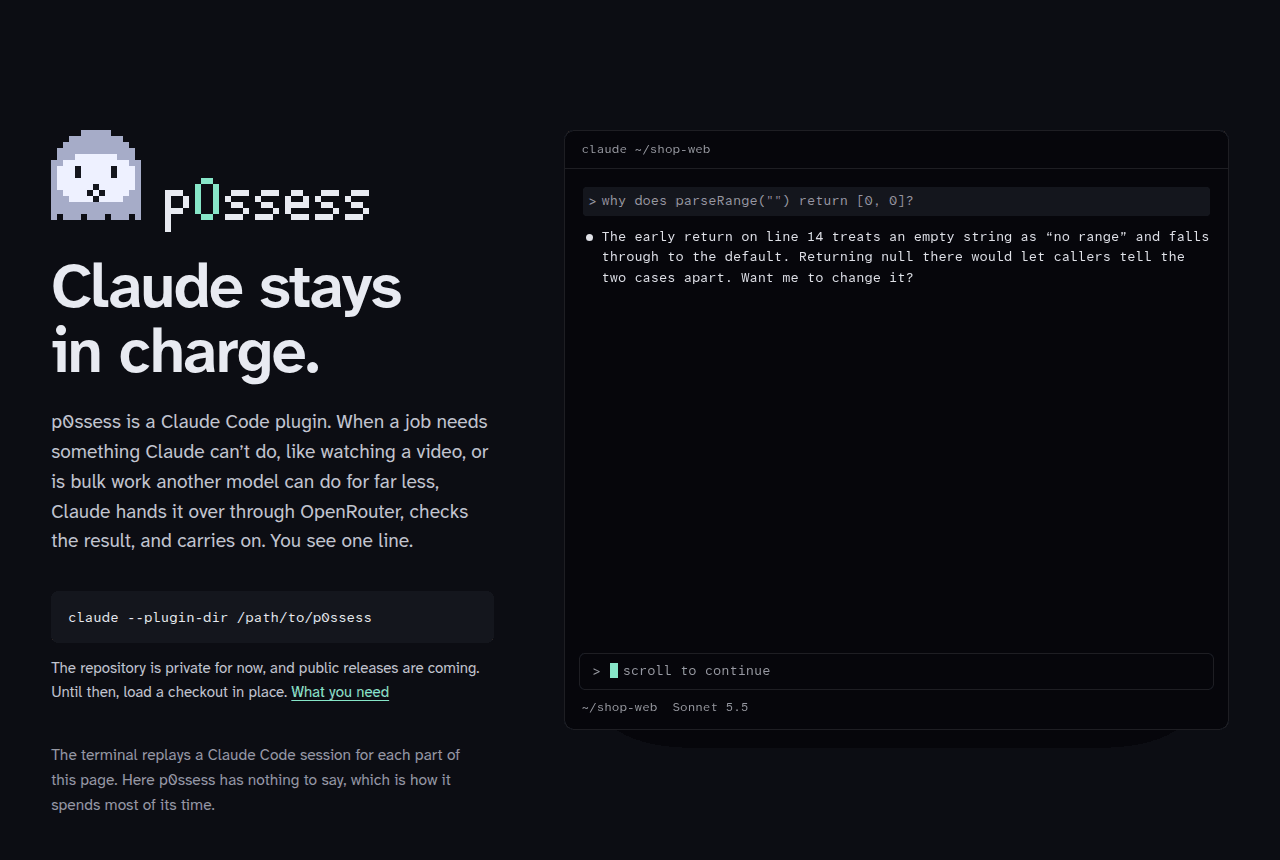
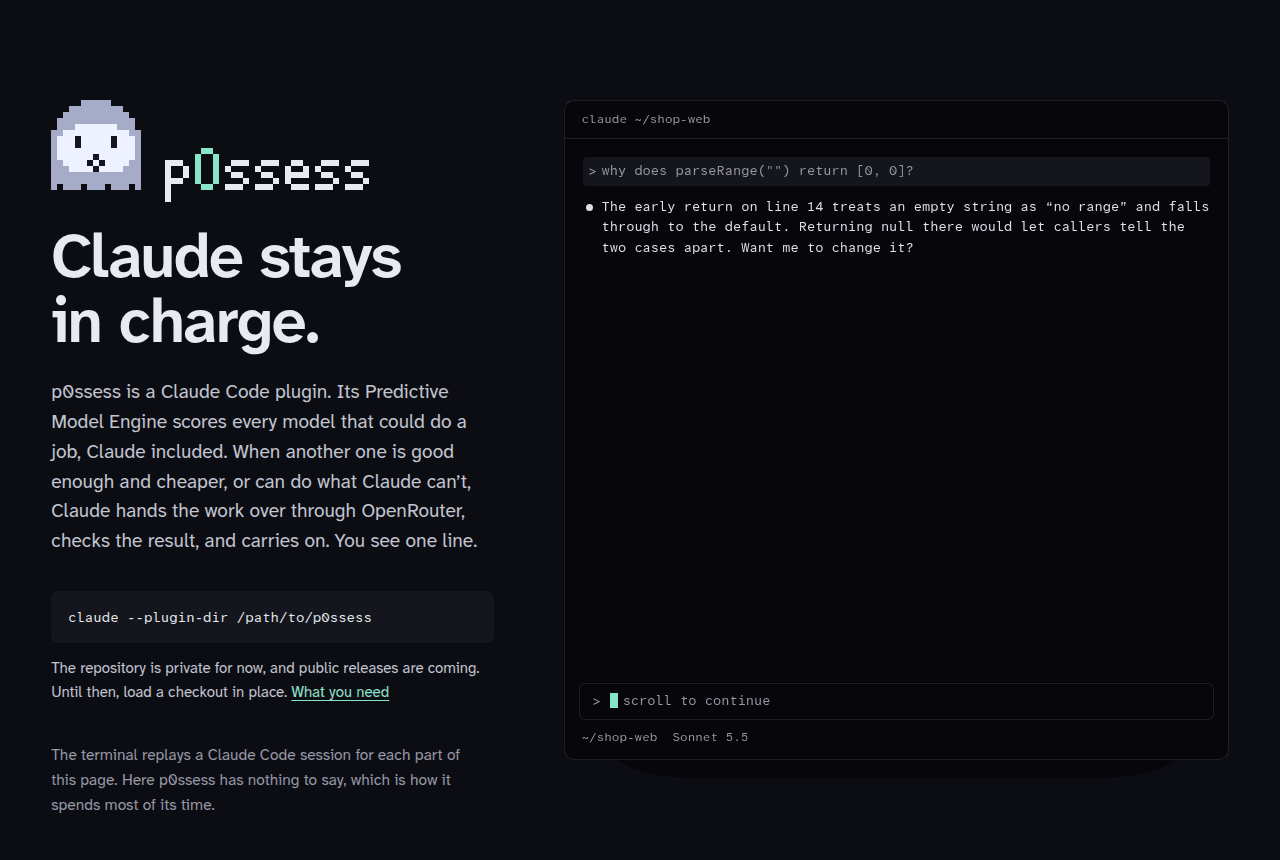
Website: the Predictive Model Engine up front, two coding hand-offs, 104 use cases
A section right after the opening explains scoring in plain terms: a
confidence score out of 100, a gate per severity (20, 35, 60, 80), then the
lowest real cost, with one request's real engine scores drawn as bars. New
scenes hand a router migration to DeepSeek V4.1 Flash through the relay agent
and a diff to GLM-5.3-Flash for review, with picks and announcements taken
from the engine. The data section lists catalog use cases with their picks
and estimates.

diff --git a/site/index.html b/site/index.html
@@ -28,7 +28,7 @@
       <svg class="wordmark" xmlns="http://www.w3.org/2000/svg" viewBox="0 0 34 9" shape-rendering="crispEdges" role="img" aria-label="p0ssess"><path class="wm-ink" d="M0 2h3v1h-3zM0 3h1v1h-1zM3 3h1v1h-1zM0 4h1v1h-1zM3 4h1v1h-1zM0 5h3v1h-3zM0 6h1v1h-1zM0 7h1v1h-1zM0 8h1v1h-1zM11 2h3v1h-3zM10 3h1v1h-1zM11 4h2v1h-2zM13 5h1v1h-1zM10 6h3v1h-3zM16 2h3v1h-3zM15 3h1v1h-1zM16 4h2v1h-2zM18 5h1v1h-1zM15 6h3v1h-3zM21 2h2v1h-2zM20 3h1v1h-1zM23 3h1v1h-1zM20 4h4v1h-4zM20 5h1v1h-1zM21 6h3v1h-3zM26 2h3v1h-3zM25 3h1v1h-1zM26 4h2v1h-2zM28 5h1v1h-1zM25 6h3v1h-3zM31 2h3v1h-3zM30 3h1v1h-1zM31 4h2v1h-2zM33 5h1v1h-1zM30 6h3v1h-3z"/><path class="wm-zero" d="M6 0h2v1h-2zM5 1h1v1h-1zM8 1h1v1h-1zM5 2h1v1h-1zM8 2h1v1h-1zM5 3h1v1h-1zM8 3h1v1h-1zM5 4h1v1h-1zM8 4h1v1h-1zM5 5h1v1h-1zM8 5h1v1h-1zM6 6h2v1h-2z"/></svg>
     </div>
     <h1>Claude stays in charge.</h1>
-    <p class="lede">p0ssess is a Claude Code plugin. When a job needs something Claude can’t do, like watching a video, or is bulk work another model can do for far less, Claude hands it over through OpenRouter, checks the result, and carries on. You see one line.</p>
+    <p class="lede">p0ssess is a Claude Code plugin. Its Predictive Model Engine scores every model that could do a job, Claude included. When another one is good enough and cheaper, or can do what Claude can’t, Claude hands the work over through OpenRouter, checks the result, and carries on. You see one line.</p>
     <div class="install">
       <pre><code>claude --plugin-dir /path/to/p0ssess</code></pre>
       <p class="small">The repository is private for now, and public releases are coming. Until then, load a checkout in place. <a href="#try">What you need</a></p>
@@ -45,18 +45,69 @@
   </figure>
 </header>
 
+<section class="sec engine" id="engine" aria-labelledby="engine-h">
+  <div class="copy">
+    <h2 id="engine-h">The Predictive Model Engine</h2>
+    <p class="lead">Every request that could leave Claude goes through it, and every model that could do the job is scored the same way, Claude included. It comes down to a score, a gate and a price.</p>
+    <h3>A score out of 100</h3>
+    <p>Each candidate gets a confidence score out of 100: a cautious estimate of how likely its result is to be accepted. It starts from licensed benchmarks and public usage data, and moves with your own history of what you kept and what Claude had to redo.</p>
+    <h3>A gate for every severity</h3>
+    <p>Claude rates each request from trivial to critical. Every level has a gate, and a model has to score at least that much to be considered at all.</p>
+    <table class="gates">
+      <thead><tr><th scope="col">Severity</th><th scope="col">For example</th><th scope="col">Gate</th><th scope="col">A mistake costs</th></tr></thead>
+      <tbody>
+        <tr><th scope="row">Trivial</th><td data-label="For example">Renames, log summaries, captions</td><td data-label="Gate">20</td><td data-label="A mistake costs">$0.01</td></tr>
+        <tr><th scope="row">Routine</th><td data-label="For example">Test drafts, transcripts, bulk edits Claude reviews</td><td data-label="Gate">35</td><td data-label="A mistake costs">$0.10</td></tr>
+        <tr><th scope="row">Important</th><td data-label="For example">Features that ship, security write-ups, migration plans</td><td data-label="Gate">60</td><td data-label="A mistake costs">$1</td></tr>
+        <tr><th scope="row">Critical</th><td data-label="For example">Auth, firewalls, infrastructure, production, money, anything sent to people</td><td data-label="Gate">80</td><td data-label="A mistake costs">$10</td></tr>
+      </tbody>
+    </table>
+    <p>Critical work also stays with Claude unless you write a rule that names a model for it.</p>
+    <h3>Then the lowest real cost wins</h3>
+    <p>Among the models that clear the gate, the engine picks the one that costs least overall: the price of the call, the Claude usage it spends or saves (worth more as you near your plan’s limit), the cost of handing the work off and checking it, and what a mistake would cost at that severity. Claude makes the final call, and your rules and budget have the last word.</p>
+    <p>That is also why small jobs stay put. A hand-off costs Claude $0.04 to $0.12 of its own usage, so anything cheaper than that to do in place never leaves.</p>
+    <figure class="gauge" aria-labelledby="gauge-cap">
+      <p class="gauge-task">One request: build a feature from a spec, and the tests decide. That’s important work, so the gate is 60.</p>
+      <div class="axis" aria-hidden="true"><span class="t20">20</span><span class="t35">35</span><span class="t60">60</span><span class="t80">80</span></div>
+      <ol class="bars">
+      <li class="pass"><span class="who">Claude Opus 5.5 <small>as an agent</small></span><span class="track" aria-hidden="true"><svg viewBox="0 0 100 10" preserveAspectRatio="none"><rect class="fill" width="82" height="10"/><line class="gate-line" x1="60" x2="60" y1="0" y2="10" vector-effect="non-scaling-stroke"/></svg></span><span class="n">82</span><span class="cost">$1.03</span><span class="sr-only">clears the gate</span></li>
+      <li class="pass"><span class="who">Claude Sonnet 5.5 <small>in your session</small></span><span class="track" aria-hidden="true"><svg viewBox="0 0 100 10" preserveAspectRatio="none"><rect class="fill" width="71" height="10"/><line class="gate-line" x1="60" x2="60" y1="0" y2="10" vector-effect="non-scaling-stroke"/></svg></span><span class="n">71</span><span class="cost">$0.54</span><span class="sr-only">clears the gate; Claude doing it itself</span></li>
+      <li class="pass win"><span class="who">GPT-6.1 Sol</span><span class="track" aria-hidden="true"><svg viewBox="0 0 100 10" preserveAspectRatio="none"><rect class="fill" width="65" height="10"/><line class="gate-line" x1="60" x2="60" y1="0" y2="10" vector-effect="non-scaling-stroke"/></svg></span><span class="n">65</span><span class="cost">$0.51</span><span class="sr-only">clears the gate; lowest real cost, gets the job</span></li>
+      <li class="fail"><span class="who">DeepSeek V4.1 Flash</span><span class="track" aria-hidden="true"><svg viewBox="0 0 100 10" preserveAspectRatio="none"><rect class="fill" width="40" height="10"/><line class="gate-line" x1="60" x2="60" y1="0" y2="10" vector-effect="non-scaling-stroke"/></svg></span><span class="n">40</span><span class="cost">below the gate</span><span class="sr-only">below the gate</span></li>
+      <li class="fail"><span class="who">Claude Haiku 5.5</span><span class="track" aria-hidden="true"><svg viewBox="0 0 100 10" preserveAspectRatio="none"><rect class="fill" width="36" height="10"/><line class="gate-line" x1="60" x2="60" y1="0" y2="10" vector-effect="non-scaling-stroke"/></svg></span><span class="n">36</span><span class="cost">below the gate</span><span class="sr-only">below the gate</span></li>
+      <li class="fail"><span class="who">GLM-5.3-Flash</span><span class="track" aria-hidden="true"><svg viewBox="0 0 100 10" preserveAspectRatio="none"><rect class="fill" width="35" height="10"/><line class="gate-line" x1="60" x2="60" y1="0" y2="10" vector-effect="non-scaling-stroke"/></svg></span><span class="n">35</span><span class="cost">below the gate</span><span class="sr-only">below the gate</span></li>
+      </ol>
+      <figcaption id="gauge-cap">Confidence scores and real costs from the engine for this request on a pay-per-token plan, before any history, rounded. Three models clear the gate, and GPT-6.1 Sol costs least once Claude’s hand-off and review are counted, so it gets the job and Claude reviews the diff. On a subscription early in a usage window, Claude’s own time counts for less, and it keeps the work. Agent evidence: LMArena leaderboard dataset, rev f566816, agent subsets as of 2026-11-04. Licensed under CC BY 4.0.</figcaption>
+    </figure>
+  </div>
+  <figure class="scene" data-title="claude ~/billing-api" data-st="idle|" aria-labelledby="t-engine">
+    <figcaption class="sr-only" id="t-engine">Transcript: the engine’s ranking for a feature, and why a cheap model is missing.</figcaption>
+    <div class="log">
+      <p class="l in bang">p0ssess engine recommend --use-case code-implement-feature --stakes 3 --top 2</p>
+      <p class="l out" data-d="700">code-implement-feature (#8, agent) · stakes 3 · λ 1.00 (API-key plan: Claude at list price)</p>
+      <p class="l out c">   route   model              total    cash     claude   risk     p_fail</p>
+      <p class="l out c">1  agent   gpt-6.1-sol        $0.5101  $0.2110  $0.1180  $0.1811  0.30    ask: up to $0.633, above the $0.02 per-task limit; edits your code; first use of this model</p>
+      <p class="l out c">2  claude  claude-sonnet-5.5  $0.5395  $0.0000  $0.4000  $0.1395  0.23</p>
+      <p class="l out c">pick: handing this to gpt-6.1-sol: feature or function from a spec; tests must pass</p>
+      <p class="l in">why isn’t deepseek flash on the list?</p>
+      <p class="l ai" data-d="900">The engine left it out: “p_fail up to 0.60 is above the stakes-3 ceiling 0.40.” As a score, that’s 40 out of 100 against a gate of 60 for important work. GPT-6.1 Sol scores 65 and I score 71; Sol wins on cost, and I’d review its diff.</p>
+    </div>
+    <p class="foot"><span class="me">~/billing-api  Sonnet 5.5</span></p>
+  </figure>
+</section>
+
 <section class="sec" id="media" aria-labelledby="media-h">
   <div class="copy">
     <h2 id="media-h">Media Claude can’t watch</h2>
     <p>Claude reads code, text and images. It can’t watch a screen recording or listen to a voice memo. When a prompt mentions one, p0ssess adds a single line of context, and Claude sends the file to a model that can, with a prompt and a price ceiling. Then it works from the answer.</p>
-    <p>On real calls, Gemini 3.8 Flash described a ten-second clip for $0.0067, and Whisper transcribed sixteen seconds of speech for $0.0002. Nothing large goes out quietly: a video over the size or length limit stops and offers local ffmpeg steps (downscale, keyframes or segments), and Claude says which one it picked.</p>
+    <p>On real calls, Gemini 3.8 Flash described a ten-second clip for $0.0067 and was the only model tested that got every detail right, sound included. Whisper transcribed sixteen seconds of speech for $0.0002. Nothing large goes out quietly: a video over the size or length limit stops and offers local ffmpeg steps (downscale, keyframes or segments), and Claude says which one it picked.</p>
   </div>
   <figure class="scene" data-title="claude ~/shop-web" data-st="idle|" aria-labelledby="t-media">
     <figcaption class="sr-only" id="t-media">Transcript: a screen recording goes to Gemini 3.8 Flash.</figcaption>
     <div class="log">
-      <p class="l in">bug-repro.mp4 is the checkout crash. what happens right before it?</p>
+      <p class="l in">have gemini flash watch bug-repro.mp4. what happens right before the checkout crash?</p>
       <p class="l ai" data-d="700">handing this to gemini-3.8-flash: describe the screen recording</p>
-      <p class="l tool" data-d="500"><b>p0ssess - direct</b> (MCP)(model: "google/gemini-3.8-flash", prompt: "Describe what happens in this screen recording, with timestamps", files: ["…/bug-repro.mp4"], stakes: 1, max_cost_usd: 0.02)</p>
+      <p class="l tool" data-d="500"><b>p0ssess - direct</b> (MCP)(model: "google/gemini-3.8-flash", prompt: "Describe what happens in this screen recording, with timestamps", files: ["…/bug-repro.mp4"], use_case: "video-bug-repro", stakes: 1, max_cost_usd: 0.02)</p>
       <p class="l res" data-d="1500">&lt;answer&gt;</p>
       <p class="l res c">0:02  The cart shows two items and a coupon field.</p>
       <p class="l res c">0:05  “Place order” is clicked twice in quick succession.</p>
@@ -71,45 +122,70 @@
   </figure>
 </section>
 
-<section class="sec tall" id="bulk" aria-labelledby="bulk-h">
+<section class="sec tall" id="chores" aria-labelledby="chores-h">
   <div class="copy">
-    <h2 id="bulk-h">Bulk work at bulk prices</h2>
-    <p>Name a model and the work goes to it. For multi-step jobs on files, a small relay agent runs an OpenCode session on that model in a sandbox, in the background, and returns a diff from a separate git worktree. Nothing is merged. Claude reads the whole diff, runs the tests, and applies it only if it’s right.</p>
-    <p>In testing, DeepSeek V4.1 Flash finished small coding tasks for $0.001 to $0.005 each. The hand-off is the expensive part: every one took $0.04 to $0.12 of Claude’s own usage before the other model spent a cent. So p0ssess sends out work that is big enough to clear that line, and leaves the rest where it is.</p>
+    <h2 id="chores-h">Tedious code, handed to a coding agent</h2>
+    <p>Ask for a chore, like moving every handler to a new router API, and the engine looks for a cheap coding model whose work the tests can check. A small relay agent runs that model in OpenCode, in the background, in a sandbox pod of its own, on a separate git worktree. What comes back is a diff. Nothing lands until Claude has read it and run the tests.</p>
+    <p>Work that edits your code always asks first. In testing, DeepSeek V4.1 Flash finished small coding tasks for $0.001 to $0.005 each. The hand-off itself took $0.04 to $0.12 of Claude’s usage, which is why only jobs bigger than that go out.</p>
   </div>
-  <figure class="scene" data-title="claude ~/stats-lib" data-st="idle|$0.01 today" aria-labelledby="t-bulk">
-    <figcaption class="sr-only" id="t-bulk">Transcript: test drafting goes to DeepSeek V4.1 Flash in the sandbox.</figcaption>
+  <figure class="scene" data-title="claude ~/billing-api" data-st="idle|" aria-labelledby="t-chores">
+    <figcaption class="sr-only" id="t-chores">Transcript: a router migration goes to DeepSeek V4.1 Flash through the relay agent, and Claude reviews the diff.</figcaption>
     <div class="log">
-      <p class="l in">use deepseek flash to draft tests for stats.py</p>
-      <p class="l ai" data-d="600">handing this to deepseek-v4.1-flash: draft tests for stats.py</p>
-      <p class="l tool" data-d="500"><b>p0ssess:p0ssess</b>(Draft tests for stats.py)</p>
-      <p class="l res dim">deepseek/deepseek-v4.1-flash: draft tests for stats.py, edit mode, stakes 2, max $0.02</p>
+      <p class="l in">move the handlers in api/ to the v2 router. the tests should still pass</p>
+      <p class="l tool" data-d="600"><b>p0ssess - recommend</b> (MCP)(use_case: "migration-test-gated", stakes: 2)</p>
+      <p class="l res dim">{"use_case": {"id": "migration-test-gated", "n": 101, "task": "Bulk non-mechanical migration gated per file by…</p>
+      <p class="l ai" data-d="700">About $0.004 on deepseek-v4.1-flash-1017, up to $0.012 with retries. It edits your code in a separate worktree, and it’s the first use of this model. Go ahead?</p>
+      <p class="l in">go ahead</p>
+      <p class="l ai" data-d="500">handing this to deepseek-v4.1-flash-1017: bulk non-mechanical migration gated per file by tests, lint and type checks, with error-fed retries</p>
+      <p class="l tool" data-d="500"><b>p0ssess:p0ssess</b>(Move api/ handlers to the v2 router)</p>
+      <p class="l res dim">deepseek/deepseek-v4.1-flash-1017: move the handlers in api/ to the v2 router, run go test ./api/... after each file, edit mode, stakes 2, max $0.012</p>
       <p class="l res c" data-st="run|1 running  $0.01">Running in the background</p>
-      <p class="l sys" data-d="2200">Agent “draft tests for stats.py” finished</p>
-      <p class="l res">&lt;answer&gt;Added tests/test_stats.py: cases for mean, median, percentile and empty input. All pass.&lt;/answer&gt;</p>
-      <p class="l res c dim" data-st="idle|$0.01 today">done  deepseek/deepseek-v4.1-flash  $0.003  diff +88 −0</p>
-      <p class="l tool" data-d="700"><b>Bash</b>(python3 -m pytest tests/test_stats.py -q)</p>
-      <p class="l res" data-d="900">11 passed</p>
-      <p class="l ai" data-d="800">The tests look right. Two compare floats with ==, so I’ll apply the diff and switch those to pytest.approx.</p>
-      <p class="l tool"><b>Bash</b>(git apply ~/.config/p0ssess/runs/ses_4f1c/diff.patch)</p>
+      <p class="l sys" data-d="2200">Agent “Move api/ handlers to the v2 router” finished</p>
+      <p class="l res">&lt;answer&gt;Moved 9 handlers in api/ to router v2: new route registration, context-first signatures, typed path params. go test ./api/... passes.&lt;/answer&gt;</p>
+      <p class="l res c dim" data-st="idle|&lt;$0.01 today">done  deepseek/deepseek-v4.1-flash-1017  $0.004  diff +212 −187</p>
+      <p class="l ai" data-d="800">Reading the diff. It’s mechanical except in orders.go, where the rewrite dropped the idempotency-key check. Applying it with that line restored.</p>
+      <p class="l tool"><b>Bash</b>(git apply ~/.local/state/p0ssess/relay/runs/ses_4f1c/diff.patch)</p>
+      <p class="l tool" data-d="600"><b>Update</b>(api/orders.go)</p>
+      <p class="l res">Updated api/orders.go with 3 additions</p>
     </div>
-    <p class="foot"><span class="me">~/stats-lib  Sonnet 5.5</span><span class="seg idle"><span class="mark" aria-hidden="true">ᗣ</span> p0ssess  $0.01 today</span></p>
+    <p class="foot"><span class="me">~/billing-api  Sonnet 5.5</span><span class="seg idle"><span class="mark" aria-hidden="true">ᗣ</span> p0ssess  &lt;$0.01 today</span></p>
+  </figure>
+</section>
+
+<section class="sec" id="review" aria-labelledby="review-h">
+  <div class="copy">
+    <h2 id="review-h">A second opinion from another family</h2>
+    <p>Before a merge, ask for a review from outside Claude’s own family. The engine looks for a model that is good enough at code review and costs least; for a typical diff that was GLM-5.3-Flash, at an estimated $0.002. Claude checks each finding against the code, fixes what holds up and says what it skipped. The review adds to Claude’s own and never replaces it.</p>
+    <p>For important changes, Claude can also offer reviews from two other families at once, with their cost, before you decide.</p>
+  </div>
+  <figure class="scene" data-title="claude ~/retry" data-st="idle|" aria-labelledby="t-review">
+    <figcaption class="sr-only" id="t-review">Transcript: a diff goes to GLM-5.3-Flash for review, and Claude weighs the findings.</figcaption>
+    <div class="log">
+      <p class="l in">before I merge this branch, get a review from another model family</p>
+      <p class="l tool" data-d="600"><b>Bash</b>(git diff main...HEAD &gt; /tmp/retry.diff)</p>
+      <p class="l tool" data-d="500"><b>p0ssess - recommend</b> (MCP)(use_case: "code-review-diff", stakes: 2)</p>
+      <p class="l res dim">{"use_case": {"id": "code-review-diff", "n": 28, "task": "Review a diff or branch with a different family", …</p>
+      <p class="l ai" data-d="600">handing this to glm-5.3-flash: review a diff or branch with a different family</p>
+      <p class="l tool" data-d="500" data-st="run|1 running  $0.02"><b>p0ssess - direct</b> (MCP)(model: "z-ai/glm-5.3-flash", prompt: "Review this diff for bugs and missing tests. Give file and line for each finding.", files: ["/tmp/retry.diff"], use_case: "code-review-diff", stakes: 2, max_cost_usd: 0.02)</p>
+      <p class="l res" data-d="1600">&lt;answer&gt;</p>
+      <p class="l res c">1. retry.go:41  The delay doubles before the first sleep, so the first retry waits 2s, not the documented 1s.</p>
+      <p class="l res c">2. retry.go:58  Do ignores ctx while sleeping; a cancel waits out the whole backoff.</p>
+      <p class="l res c">3. retry_test.go  No test for a permanent error.</p>
+      <p class="l res c">&lt;/answer&gt;</p>
+      <p class="l res c dim" data-st="idle|&lt;$0.01 today">… +2 lines (ctrl+o to expand)</p>
+      <p class="l ai" data-d="800">The first two hold up. The third is already covered by TestDoStopsOnPermanent, so I’m skipping it. Fixing the backoff and making the sleep watch ctx.Done().</p>
+      <p class="l tool"><b>Update</b>(retry.go)</p>
+      <p class="l res">Updated retry.go with 6 additions and 3 removals</p>
+    </div>
+    <p class="foot"><span class="me">~/retry  Sonnet 5.5</span><span class="seg idle"><span class="mark" aria-hidden="true">ᗣ</span> p0ssess  &lt;$0.01 today</span></p>
   </figure>
 </section>
 
 <section class="sec" id="stakes" aria-labelledby="stakes-h">
   <div class="copy">
     <h2 id="stakes-h">Some work stays with Claude</h2>
-    <p>Every route is scored the same way, Claude included: the cash, the Claude usage it spends or saves, the chance the result isn’t accepted, and what a bad result would cost. The lowest expected cost per accepted result wins, and Claude makes the call.</p>
-    <p>What a bad result costs depends on the stakes. Claude rates each task from 1 to 4 and only mentions the rating when it changes where the work goes.</p>
-    <dl class="stakes">
-      <div><dt>1 Trivial</dt><dd>Renames, log summaries, captions. Easy to undo, and mistakes are obvious.</dd></div>
-      <div><dt>2 Routine</dt><dd>Test drafts, transcripts, bulk edits Claude reviews.</dd></div>
-      <div><dt>3 Important</dt><dd>Features that ship, security write-ups, migration plans.</dd></div>
-      <div><dt>4 Critical</dt><dd>Auth, firewalls, infrastructure, production, money, anything sent to other people.</dd></div>
-    </dl>
-    <p>Critical work stays on Claude unless you write a rule that names a model for it, and the tools enforce that whatever Claude decides. Small work stays too: a rename costs Claude less to do than to hand off, so it is never offered. If a rating is wrong, say so.</p>
-    <p>For important code changes, Claude can also offer a second opinion from two other model families, with its cost. It adds to Claude’s own review and never replaces it.</p>
+    <p>When a request is critical, the gate decides before price does. Ask for a firewall change on a cheap model and Claude says so in one line, then does the work itself. The tools that spend enforce the same gate, whatever Claude decides.</p>
+    <p>Small work stays too, without a word: a rename costs Claude less to do than to hand off. If a rating looks wrong, say so in plain words and Claude uses yours.</p>
   </div>
   <figure class="scene" data-title="claude ~/edge" data-st="idle|" aria-labelledby="t-stakes">
     <figcaption class="sr-only" id="t-stakes">Transcript: a firewall change stays on Claude; a rename stays without comment.</figcaption>
@@ -138,18 +214,20 @@
     <p>A rules file that arrives inside a cloned repository can only tighten your limits. Anything that would loosen them is ignored, and you’re told once.</p>
   </div>
   <figure class="scene" data-title="claude ~/talks" data-st="idle|" aria-labelledby="t-rules">
-    <figcaption class="sr-only" id="t-rules">Transcript: a standing approval in plain language, then a video job that runs without asking.</figcaption>
+    <figcaption class="sr-only" id="t-rules">Transcript: a rule and a standing approval in plain language, then a video job that runs without asking.</figcaption>
     <div class="log">
-      <p class="l in">auto-approve video descriptions up to 15 cents each</p>
-      <p class="l tool" data-d="600"><b>p0ssess - approvals_add</b> (MCP)(use_cases: ["video-understand"], max_per_run_usd: 0.15, scope: "global", dry_run: true)</p>
+      <p class="l in">only use gemini-3.8-flash for video, and auto-approve video descriptions up to 15 cents each</p>
+      <p class="l tool" data-d="600"><b>p0ssess - rules_add</b> (MCP)(kind: "only", models: ["google/gemini-3.8-flash"], kinds: ["media"], scope: "global", dry_run: true)</p>
+      <p class="l res">only use gemini-3.8-flash for media work (global)</p>
+      <p class="l tool" data-d="500"><b>p0ssess - approvals_add</b> (MCP)(use_cases: ["video-understand"], max_per_run_usd: 0.15, scope: "global", dry_run: true)</p>
       <p class="l res">auto-approve for video-understand up to $0.15 each (global)</p>
-      <p class="l ai" data-d="600">auto-approve for video-understand up to $0.15 each (global). Save it?</p>
+      <p class="l ai" data-d="600">Two rules: only use gemini-3.8-flash for media work (global), and auto-approve for video-understand up to $0.15 each (global). Save both?</p>
       <p class="l in">yes</p>
-      <p class="l tool" data-d="500"><b>p0ssess - approvals_add</b> (MCP)(use_cases: ["video-understand"], max_per_run_usd: 0.15, scope: "global")</p>
-      <p class="l res">saved</p>
+      <p class="l tool" data-d="500"><b>p0ssess - rules_add</b> (MCP)(kind: "only", models: ["google/gemini-3.8-flash"], kinds: ["media"], scope: "global")</p>
+      <p class="l tool" data-d="300"><b>p0ssess - approvals_add</b> (MCP)(use_cases: ["video-understand"], max_per_run_usd: 0.15, scope: "global")</p>
       <p class="l in">what changes between take-1.mp4 and take-2.mp4?</p>
       <p class="l ai" data-d="600">handing this to gemini-3.8-flash: compare the two takes</p>
-      <p class="l tool" data-d="500"><b>p0ssess - direct</b> (MCP)(model: "google/gemini-3.8-flash", prompt: "Compare the two takes", files: ["…/take-1.mp4", "…/take-2.mp4"], stakes: 1, max_cost_usd: 0.15)</p>
+      <p class="l tool" data-d="500"><b>p0ssess - direct</b> (MCP)(model: "google/gemini-3.8-flash", prompt: "Compare the two takes", files: ["…/take-1.mp4", "…/take-2.mp4"], use_case: "video-understand", stakes: 1, max_cost_usd: 0.15)</p>
       <p class="l res" data-d="1500" data-st="idle|$0.01 today">&lt;answer&gt;Take 2 drops the intro slide and starts on the demo; the closing line is the same.&lt;/answer&gt;</p>
     </div>
     <p class="foot"><span class="me">~/talks  Sonnet 5.5</span><span class="seg idle"><span class="mark" aria-hidden="true">ᗣ</span> p0ssess  $0.01 today</span></p>
@@ -236,11 +314,26 @@
   </figure>
 </section>
 
-<section class="sec" id="data" aria-labelledby="data-h">
+<section class="sec tall" id="data" aria-labelledby="data-h">
   <div class="copy">
-    <h2 id="data-h">Numbers with a source</h2>
-    <p>The engine starts from data whose license allows reuse, and every value carries its source and date: OpenRouter’s public model list and Data API (CC BY 4.0), LMArena’s leaderboard dataset (CC BY 4.0), the benchmarks Epoch AI runs itself (CC BY 4.0), and models.dev (MIT) as a cross-check. Where no clean benchmark exists, as for audio and video, it says so and learns from your own outcomes.</p>
-    <p>The catalog holds 104 use cases, each backed by public evidence, with a recommended model, alternatives that include Claude on equal footing, stakes, expected cost, and how Claude checks the result.</p>
+    <h2 id="data-h">Built from 104 use cases</h2>
+    <p>The engine was built from 104 researched use cases, each backed by public evidence. About half are grounded in OpenRouter usage data, the other half in what Claude Code can’t do or does expensively. Each lists a recommended model, alternatives with Claude on equal footing, a severity, an expected cost, and how Claude checks the result. A few of them:</p>
+    <table class="cases">
+      <thead><tr><th scope="col">Use case</th><th scope="col">Catalog pick</th><th scope="col">Estimate</th></tr></thead>
+      <tbody>
+        <tr><td>Summarize a talk, meeting or lecture video</td><td data-label="Catalog pick">Gemini 3.8 Flash</td><td data-label="Estimate">$0.05–0.15 per 10 minutes</td></tr>
+        <tr><td>Meetings, memos and interviews to text</td><td data-label="Catalog pick">Whisper large v3 turbo</td><td data-label="Estimate">about $0.006 per 30 minutes</td></tr>
+        <tr><td>Bulk migration, gated file by file by tests</td><td data-label="Catalog pick">DeepSeek V4.1 Flash</td><td data-label="Estimate">about $0.002 per attempt</td></tr>
+        <tr><td>Condense big logs or CI output</td><td data-label="Catalog pick">DeepSeek V4.1 Flash</td><td data-label="Estimate">$0.004–0.013 per 1 MB log</td></tr>
+        <tr><td>Translate new keys in locale files</td><td data-label="Catalog pick">Gemini 3.8 Flash</td><td data-label="Estimate">about $0.017 per locale</td></tr>
+        <tr><td>Icons, illustrations, hero images</td><td data-label="Catalog pick">Gemini 3.1 Flash Image</td><td data-label="Estimate">about $0.04 per image</td></tr>
+        <tr><td>Label many issues, logs or files</td><td data-label="Catalog pick">GLM-5.3-Flash</td><td data-label="Estimate">about $0.04 per 1,000 items</td></tr>
+        <tr><td>Firewall rules, Terraform, IAM policies</td><td data-label="Catalog pick">Stays with Claude</td><td data-label="Estimate">critical</td></tr>
+        <tr><td>Auth, session, crypto and payment code</td><td data-label="Catalog pick">Stays with Claude</td><td data-label="Estimate">critical</td></tr>
+      </tbody>
+    </table>
+    <p class="small">Estimates are the catalog’s list-price figures; the engine prices each request again from live data.</p>
+    <p>Every number comes from data whose license allows reuse, with its source and date: OpenRouter’s public model list and Data API (CC BY 4.0), LMArena’s leaderboard dataset (CC BY 4.0), the benchmarks Epoch AI runs itself (CC BY 4.0), and models.dev (MIT) as a cross-check. Where no clean benchmark exists, as for audio and video, the engine says so and learns from your own outcomes.</p>
     <p>Sometimes the market and the evidence disagree. Cheap flash models run a 10–49-turn Claude Code session for a median $0.027 on DeepSeek V4.1 Flash, against $0.534 on Sonnet 5.5. On LMArena’s agent board, Opus 5.5 scores 0.201 and DeepSeek V4.1 Flash 0.024. The engine follows the evidence and treats agentic hand-offs as a priced risk.</p>
     <p class="cite">Session costs: Source: OpenRouter Data API (openrouter.ai/docs/cookbook/administration/data-api), as of 2026-11-02T07:25:14.332Z. Licensed under CC BY 4.0. Agent scores: LMArena leaderboard dataset, rev f566816, agent subsets as of 2026-11-04. Licensed under CC BY 4.0.</p>
   </div>
@@ -254,7 +347,7 @@
       <p class="l out c">2  direct  gemma-4-26b-a4b-it  $0.0773  $0.0058  $0.0550  $0.0165  0.25    ask: first use of this model</p>
       <p class="l out c">pick: handing this to glm-5.3-flash: summarize a talk, meeting or lecture video</p>
       <p class="l in">why is there no claude row?</p>
-      <p class="l ai" data-d="800">Claude can’t watch video, so it isn’t a candidate. There’s no clean video benchmark either, so the catalog’s ordering is the prior until your own outcomes move it.</p>
+      <p class="l ai" data-d="800">Claude can’t watch video, so it isn’t a candidate. There’s no clean video benchmark either, so the catalog’s ordering is the prior: Gemini 3.8 Flash is its pick, but with no history yet GLM-5.3-Flash wins on price at this severity. Your own outcomes move that.</p>
     </div>
     <p class="foot"><span class="me">~/talks  Sonnet 5.5</span></p>
   </figure>

diff --git a/site/style.css b/site/style.css
@@ -157,6 +157,61 @@ h2 {
 .install p code { color: var(--ink); }
 .hint { margin-top: 3.2rem !important; font-size: 0.97rem; color: var(--ink-3) !important; max-width: 27rem; }
 
+/* The engine */
+.copy h3 { font-size: 1.2rem; font-weight: 640; letter-spacing: -0.01em; line-height: 1.3; margin-top: 2.2rem; }
+.copy h3 + p { margin-top: 0.5rem; }
+.copy .lead { font-size: 1.2rem; line-height: 1.55; color: var(--ink-2); }
+.engine h2 { font-size: clamp(2.1rem, 2.2vw + 1.2rem, 2.9rem); letter-spacing: -0.025em; line-height: 1.05; }
+
+table { border-collapse: collapse; width: 100%; font-size: 0.97rem; }
+th, td { text-align: left; vertical-align: top; padding: 0.6rem 0.9rem 0.6rem 0; border-top: 1px solid var(--rule); }
+thead th { font-weight: 500; font-size: 0.86rem; color: var(--ink-3); border-top: 0; padding-bottom: 0.45rem; }
+tbody tr:last-child > * { border-bottom: 1px solid var(--rule); }
+tbody th { font-weight: 640; }
+td { color: var(--ink-2); }
+.gates { margin-top: 1.2rem !important; }
+.gates td:nth-child(3), .gates thead th:nth-child(3) { font-variant-numeric: tabular-nums; font-weight: 640; color: var(--ink); text-align: right; }
+.gates td:nth-child(4), .gates thead th:nth-child(4) { font-variant-numeric: tabular-nums; text-align: right; padding-right: 0; white-space: nowrap; }
+.gates td:nth-child(2) { padding-right: 1.4rem; }
+
+.gauge { margin-top: 2.4rem !important; padding: 1.4rem 1.3rem 1.2rem; background: var(--bg-2); border-radius: 12px; }
+.gauge-task { color: var(--ink) !important; font-size: 1rem; }
+.axis, .bars li { display: grid; grid-template-columns: minmax(0, 1fr) 2.4rem; column-gap: 0.9rem; align-items: center; }
+.axis { position: relative; margin-top: 1.3rem; height: 1.2rem; font-size: 0.78rem; color: var(--ink-3); font-variant-numeric: tabular-nums; --w: calc(100% - 2.4rem - 0.9rem); }
+.axis span { position: absolute; top: 0; transform: translateX(-50%); }
+.axis .t20 { left: calc(var(--w) * 0.2); }
+.axis .t35 { left: calc(var(--w) * 0.35); }
+.axis .t60 { left: calc(var(--w) * 0.6); color: var(--ink); font-weight: 640; }
+.axis .t80 { left: calc(var(--w) * 0.8); }
+.bars { list-style: none; padding: 0; margin: 0.2rem 0 0; }
+.bars li { padding: 0.45rem 0 0.4rem; font-size: 0.94rem; row-gap: 0.3rem; }
+.bars .who { grid-column: 1; grid-row: 1; color: var(--ink); line-height: 1.25; }
+.bars .who small { font-size: 0.82rem; color: var(--ink-3); margin-left: 0.3rem; }
+.bars .cost { grid-column: 1 / -1; grid-row: 1; justify-self: end; }
+.bars .track { grid-column: 1; grid-row: 2; }
+.bars .n { grid-column: 2; grid-row: 2; }
+.bars .track { display: block; height: 12px; background: var(--rule); border-radius: 2px; overflow: hidden; }
+.bars svg { display: block; width: 100%; height: 100%; }
+.bars .fill { fill: var(--ink-3); }
+.bars .pass .fill { fill: var(--ink-2); }
+.bars .win .fill { fill: var(--accent); }
+.bars .gate-line { stroke: var(--ink); stroke-width: 2; }
+.bars .n { font-variant-numeric: tabular-nums; text-align: right; color: var(--ink); font-weight: 640; }
+.bars .fail .n, .bars .fail .who { color: var(--ink-3); }
+.bars .cost { font-variant-numeric: tabular-nums; color: var(--ink-2); font-size: 0.88rem; }
+.bars .fail .cost { color: var(--ink-3); }
+.bars .win .cost { color: var(--ink); font-weight: 640; }
+.gauge figcaption { margin-top: 1rem; font-size: 0.82rem; line-height: 1.55; color: var(--ink-3); }
+
+.cases { margin-top: 1.3rem !important; font-size: 0.94rem; }
+.cases thead { position: absolute; width: 1px; height: 1px; overflow: hidden; clip-path: inset(50%); }
+.cases tr { display: grid; grid-template-columns: 1fr auto; column-gap: 1rem; padding: 0.6rem 0; border-top: 1px solid var(--rule); }
+.cases tbody tr:last-child { border-bottom: 1px solid var(--rule); }
+.cases tr > * { border: 0 !important; padding: 0; }
+.cases td:first-child { grid-column: 1 / -1; color: var(--ink); }
+.cases td:nth-child(2) { color: var(--ink-2); }
+.cases td:nth-child(3) { text-align: right; font-variant-numeric: tabular-nums; color: var(--ink-3); }
+
 /* Stakes scale */
 .stakes { margin-top: 1.6rem !important; border-bottom: 1px solid var(--rule); }
 .stakes div { display: grid; grid-template-columns: 7.2rem 1fr; gap: 1rem; padding: 0.75rem 0; border-top: 1px solid var(--rule); }
@@ -208,7 +263,7 @@ h2 {
 .replay:hover { color: var(--t-ink); background: var(--t-in); }
 .replay:focus-visible { outline-color: var(--t-accent); outline-offset: 0; }
 
-.screen { flex: 1; min-height: 0; overflow: hidden; padding: 18px 18px 6px; }
+.screen { flex: 1; min-height: 0; overflow: hidden; padding: 18px 18px 6px; -webkit-mask-image: linear-gradient(to bottom, transparent 0, #000 22px); mask-image: linear-gradient(to bottom, transparent 0, #000 22px); }
 .scene .log { padding: 18px 16px 6px; }
 .log .l { position: relative; margin: 0; padding-left: 2.2ch; white-space: pre-wrap; overflow-wrap: anywhere; }
 .log .l:not(.c) { margin-top: 0.85em; }
@@ -281,6 +336,22 @@ h2 {
 .ghost.small { width: 30px; height: 30px; margin-top: 0.15rem; }
 .site-foot a { color: inherit; }
 
+@media (max-width: 640px) {
+  .gates thead { position: absolute; width: 1px; height: 1px; overflow: hidden; clip-path: inset(50%); }
+  .gates tr { display: grid; grid-template-columns: 1fr auto; column-gap: 1rem; border-top: 1px solid var(--rule); padding: 0.6rem 0; }
+  .gates tr > * { border: 0 !important; padding: 0; }
+  .gates td:nth-child(2) { grid-column: 1 / -1; grid-row: 2; padding: 0.2rem 0 0.25rem; }
+  .gates td[data-label="Gate"], .gates td[data-label="A mistake costs"] { text-align: left; font-weight: 400; color: var(--ink-2); }
+  .gates td[data-label]:not(:nth-child(2))::before { content: attr(data-label) " "; color: var(--ink-3); }
+  .gates th { grid-column: 1; grid-row: 1; }
+  .gates td[data-label="Gate"] { grid-row: 3; grid-column: 1; }
+  .gates td[data-label="A mistake costs"] { grid-row: 3; grid-column: 2; text-align: right; }
+  .cases tr { grid-template-columns: 1fr; row-gap: 0.1rem; }
+  .cases td:nth-child(3) { text-align: left; }
+  .gates tbody tr:last-child { border-bottom: 1px solid var(--rule); }
+  .gauge { padding: 1.1rem 1rem; }
+}
+
 @media (max-width: 480px) {
   body { font-size: 1.0625rem; }
   .lockup { --px: 4px; }
@@ -301,14 +372,14 @@ h2 {
   html.js .scene { position: absolute !important; width: 1px; height: 1px; margin: -1px; overflow: hidden; clip-path: inset(50%); border: 0; padding: 0; box-shadow: none; }
   html.js .sec { min-height: 96vh; padding-block: 16vh; border-top: 0; display: flex; flex-direction: column; justify-content: center; }
   html.js .sec.tall { min-height: 118vh; }
-  html.js .sec.hero { min-height: 100vh; padding-top: max(24px, calc(50vh - 300px)); padding-bottom: 6vh; justify-content: flex-start; }
+  html.js .sec.hero { min-height: 100vh; padding-top: max(24px, calc(50vh - 330px)); padding-bottom: 6vh; justify-content: flex-start; }
   html.js .sec.hero .hint { margin-top: auto !important; padding-top: 2.4rem; }
   html.js .lockup { --px: 6px; }
   .term {
     position: sticky;
-    top: max(24px, calc(50vh - 300px));
-    height: min(600px, calc(100vh - 48px));
-    margin-top: max(24px, calc(50vh - 300px));
+    top: max(24px, calc(50vh - 330px));
+    height: min(660px, calc(100vh - 48px));
+    margin-top: max(24px, calc(50vh - 330px));
     display: flex; flex-direction: column;
   }
   .site-foot { padding-inline: clamp(32px, 4vw, 56px); }

diff --git a/site/shoot.py b/site/shoot.py
@@ -29,8 +29,10 @@ origin = f"http://127.0.0.1:{srv.server_port}"
 url = origin + "/index.html"
 log = []
 
-desk = ["top", "media", "bulk", "stakes", "rules", "ghost", "sandbox", "wont", "data", "try", "end"]
-phone = ["top", "media", "ghost"]
+desk = ["top", "engine", "gauge", "media", "chores", "review", "stakes", "rules", "ghost", "sandbox", "wont", "data", "try", "end"]
+phone = ["top", "engine", "gates", "gauge", "chores", "review", "data"]
+# Shots that start at a part of a section rather than the section itself.
+parts = {"gauge": "#engine .gauge", "gates": "#engine .gates"}
 
 with sync_playwright() as p:
     b = p.chromium.launch(executable_path=args.browser, headless=True,
@@ -53,10 +55,10 @@ with sync_playwright() as p:
                     pg.evaluate("scrollTo(0, 0)")
                 elif sid == "end":
                     pg.evaluate("scrollTo(0, document.documentElement.scrollHeight)")
-                elif name == "desk":
-                    pg.evaluate(f"document.getElementById('{sid}').scrollIntoView({{block: 'center'}})")
                 else:
-                    pg.evaluate(f"document.getElementById('{sid}').scrollIntoView({{block: 'start'}})")
+                    sel = parts.get(sid, "#" + sid)
+                    block = "center" if name == "desk" and sid not in ("engine", "data") else "start"
+                    pg.evaluate(f"document.querySelector('{sel}').scrollIntoView({{block: '{block}'}})")
                 pg.wait_for_timeout(450)
                 pg.screenshot(path=str(out / f"{name}-{scheme}-{i:02d}-{sid}.png"))
             if args.full and name == "phone":
